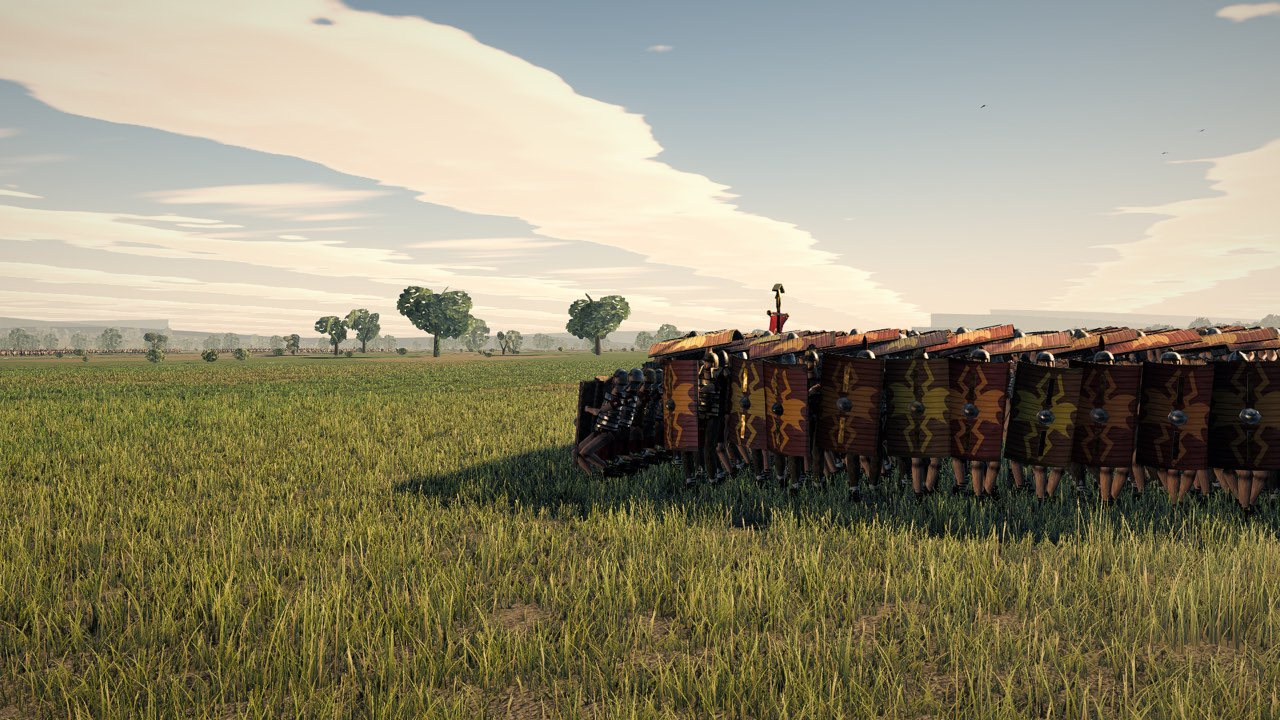
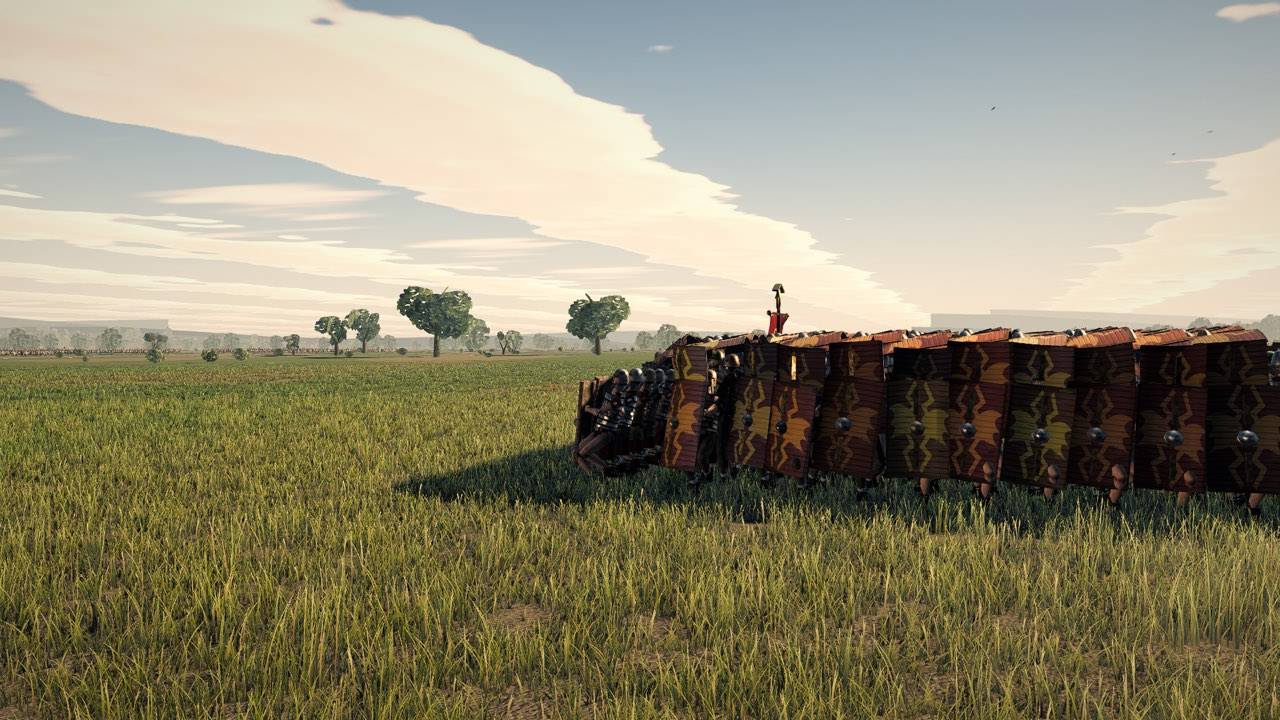
fix(testudo): two courses on every wall, which is what both critics asked for
A man holds one 1.06 m board and stands 1.75 m, so one course cannot reach from the
grass to above his helmet. Three passes proved it: at 0.74-1.79 m the rim stands on
the roof line and the legs are out; at 0.42-1.47 m the head is out; at 0.55-1.60 m the
head is hidden from a level ray but an eye at 1.75 m is above any rim below 1.75 m, so
at the height the rubric grades from it did nothing.

The front of the formation had never had the problem, because the front has always
been two courses — Face planted low at rank 0 and Nose tipped back above it at rank 1 —
and the front is the frame both critics called the strongest while calling the flanks
the weakest. So the flanks and the back are built the same way now: the outer file
plants the low board with its rim in the grass, the file behind it stands the high one
on the roof line, and between them the wall is closed from the turf to 1.79 m. Two
files of roof on each side, 40 men of 320.

Presentation only.

diff --git a/src/units/UnitRenderSystem.ts b/src/units/UnitRenderSystem.ts
@@ -1658,9 +1658,30 @@ export class UnitRenderSystem implements Subsystem {
         const file = slot % w;
         let r: TestudoRole;
         let turn = 0;
+        /**
+         * Two courses on every wall, not one, and this is the shape the whole feature
+         * converged on.
+         *
+         * A man holds one 1.06 m board and stands 1.75 m, so a single course cannot reach
+         * from the grass to above his helmet: put the rim low and his head is out, put it
+         * high and his legs are. The *front* of the formation never had that problem
+         * because it has always been two courses — `Face` planted low at rank 0 and `Nose`
+         * tipped back above it at rank 1 — and the front is the frame two independent
+         * critics called the strongest in the set while calling the flanks the weakest.
+         *
+         * So the flanks and the back are built the same way: the outer file plants `Face`
+         * low, the file behind it stands `Flank` on the roof line, and between them the
+         * wall is closed from the turf to 1.79 m. It costs two files of roof on each side.
+         */
+        const rearRank = Math.floor((last - file) / w);
+        const closed = lastRank >= TESTUDO_MIN_DEPTH;
         if (rank === 0) {
           r = TestudoRole.Face;
-        } else if (rank >= Math.floor((last - file) / w) && lastRank >= TESTUDO_MIN_DEPTH) {
+        } else if (closed && rank === rearRank - 1 && rank > 1) {
+          // Inner course of the back wall: the high board, standing on the roof line.
+          r = TestudoRole.Flank;
+          turn = Math.PI;
+        } else if (closed && rank >= rearRank) {
           /**
            * The back of the shell, and the reason this is per *file* and not per rank.
            *
@@ -1671,7 +1692,8 @@ export class UnitRenderSystem implements Subsystem {
            * the rear closed and half of it a row of bare legs and shoulder blades.
            * `floor((last - file) / w)` is the highest rank that file actually reaches.
            */
-          r = TestudoRole.Flank;
+          // Outer course of the back wall: the low board, rim in the grass.
+          r = TestudoRole.Face;
           // Chamfered at the two back corners for the same reason as the front two: a man
           // who is both the end of the rear rank and the end of a flank has to face the
           // diagonal, or the join between the two walls is a hole with a man in it.
@@ -1695,11 +1717,18 @@ export class UnitRenderSystem implements Subsystem {
            * bevel to the front rather than a notch. A shell is not a box with square
            * corners; the corners are where two surfaces have to meet.
            */
-          r = TestudoRole.Flank;
+          // Outer course: the board planted low, rim in the grass.
+          r = TestudoRole.Face;
           const out = file === 0 ? -1 : 1;
           // Eased rather than stepped. A hard step from 50° to 90° at one rank is a corner
           // with a crease in it, and from in front the first square board behind the bevel
           // is edge-on and shows the man beside it. Six ranks of it is a bevel.
+          const t = Math.min(1, Math.max(0, (rank - 1) / 5));
+          turn = out * (TESTUDO_CHAMFER + (Math.PI / 2 - TESTUDO_CHAMFER) * t * t);
+        } else if (w >= 6 && (file === 1 || file === w - 2)) {
+          // Inner course: the board standing on the roof line, one file in.
+          r = TestudoRole.Flank;
+          const out = file === 1 ? -1 : 1;
           const t = Math.min(1, Math.max(0, (rank - 1) / 5));
           turn = out * (TESTUDO_CHAMFER + (Math.PI / 2 - TESTUDO_CHAMFER) * t * t);
         } else if (rank === 1) {

diff --git a/src/anim/authored.ts b/src/anim/authored.ts
@@ -605,33 +605,32 @@ const ARMS_ROOF_B: BoneTrack[] = [
 ];
 
 /**
- * Flank and rear: the board upright, covering 0.55-1.60 m. **This height is a solved
- * three-way trade and it is worth understanding before moving it.**
+ * The **upper** course of the flank and rear wall: the board upright, covering 0.74-1.79 m.
  *
- * One 1.06 m board cannot cover a 1.75 m man, so wherever it is put, something is out. Two
- * critics moved it in opposite directions and between them fixed the number:
+ * **One 1.06 m board cannot cover a 1.75 m man, and three passes were spent proving it.**
+ * The flank started at this height, because the rim then stands on the roof line and no
+ * horizontal ray gets in. That left 0.74 m of bare leg along both flanks and the whole of
+ * the back, and a critic named it in five of nine frames as the single highest-leverage
+ * fault in the build. It was dropped to 0.42-1.47 m; the *other* end opened, and the next
+ * critic counted twenty-six exposed helmets, faces and raised forearms in one band across
+ * the back. It was split at 0.55-1.60 m; that hides the head from a level ray but **an eye
+ * at 1.75 m is above any rim below 1.75 m**, so from the height the rubric grades at, it
+ * did not help.
  *
- *   - **0.72-1.77 m** — the first attempt, chosen so the rim stood on the roof line and
- *     sealed every horizontal sightline. It put 0.72 m of bare leg along both flanks and
- *     the whole of the back; a critic named it in five of nine frames and called it the
- *     single highest-leverage fix in the build.
- *   - **0.42-1.47 m** — the answer to that, and it made the *other* end worse: the hunched
- *     man's head is at 1.55 m, so a rim at 1.47 leaves his helmet, face and both raised
- *     forearms above it. The next critic counted twenty-six in one unbroken band across the
- *     back and scored it as the same fault the legs were.
- *   - **0.55-1.60 m**, here. The rim is 0.05 m *over* the head, so nothing of the man shows
- *     above it, and the gap to the roof's own leading edge at 1.66 m is 0.06 m — closed for
- *     any practical sightline. The leg band is 0.55 m of which the grass takes about 0.2 m.
+ * The answer both critics converged on independently is the one the front of the formation
+ * already used: **two courses, not one.** The outer file plants `testudoFace` low, at
+ * 0.30-1.35 m, so the rim is in the grass; the file behind it holds this one at 0.74-1.79 m,
+ * so the rim is on the roof line. Between them they cover the ground to above a standing
+ * man's helmet, which is exactly what `Face` and `Nose` do at the front and exactly why the
+ * front face was the strongest frame in the set while the flanks were the weakest.
  *
- * Dropping it also took the "black fins" with it: at 1.60 m the far wall no longer stands
- * above the roof, so the unlit hide backs a tactical camera used to see over the top of the
- * shell are hidden behind the roof they used to stick through.
+ * It costs two files of roof on each side, which is 40 of 320 men.
  */
 const ARMS_FLANK: BoneTrack[] = [
-  absTr(MB.upperArmL, [[0, -172.1, 88.7, 6.2]]),
+  absTr(MB.upperArmL, [[0, 153.5, 88.7, 3]]),
   absTr(MB.lowerArmL, [[0, -174, -51, -177]]),
-  absTr(MB.upperArmR, [[0, 22.1, 26.6, 67.2]]),
-  absTr(MB.lowerArmR, [[0, -52, -46.8, 150.8]]),
+  absTr(MB.upperArmR, [[0, 34.8, 20.2, 54.5]]),
+  absTr(MB.lowerArmR, [[0, -63.6, -47.2, 159.5]]),
 ];
 
 /**

diff --git a/docs/tech/TESTUDO.md b/docs/tech/TESTUDO.md
@@ -51,11 +51,11 @@ would then have to have an opinion about.
 
 | role | rank / file | the board covers | what it closes |
 |---|---|---|---|
-| `Face` | rank 0 | 0.30–1.35 m, upright | the frontage, down to the ankles |
-| `Nose` | rank 1 | 1.19–1.92 m, 46° back-slope reaching 0.75 m forward | the band across the front at head height |
+| `Face` | rank 0; **and** the outer file and rearmost man of every file, turned outward | 0.30–1.35 m, upright, rim in the grass | the lower course of all four walls |
+| `Flank` | the **second** file in, and the man one rank forward of the rearmost, turned outward | 0.74–1.79 m, upright, rim on the roof line | the upper course of the flanks and the back |
+| `Nose` | rank 1 | 1.16–1.81 m, 52° back-slope reaching 0.85 m forward | the upper course of the front — the band at head height |
 | `RoofA` | interior, even ranks | 1.66–1.81 m, 8° nose-down | the roof, course one |
 | `RoofB` | interior, odd ranks | 1.63–1.85 m, 12° nose-down | the roof, course two |
-| `Flank` | outer files, and the rearmost man of **every** file | 0.42–1.47 m, upright | the flanks and the back, with the man turned outward |
 
 At the 0.632 m rank interval the formation asks for, each roof board laps the one in front by
 **0.43 m** — which is what leaves no hole when a man is 0.1 m out of his place. The face's top
@@ -81,6 +81,25 @@ the normal off the zenith, and puts a real 0.15 m step at every lap, so the roof
 with *shadow*. It is also the right way round — the leading edge is the low one, so each board
 sheds over the one behind it, which is how tiles are laid and why the surface reads as laid
 rather than printed.
+
+### Two courses on every wall
+
+**A man holds one 1.06 m board and stands 1.75 m, so a single course cannot reach from the
+grass to above his helmet.** Three passes were spent proving it. The flanks began at
+0.74–1.79 m so the rim stood on the roof line and no horizontal ray got in; that left 0.74 m
+of bare leg along both flanks and the whole back, and a critic named it in five of nine
+frames as the highest-leverage fault in the build. Dropped to 0.42–1.47 m, the other end
+opened and the next critic counted twenty-six exposed helmets, faces and raised forearms in
+one band across the back. Split at 0.55–1.60 m it hides the head from a *level* ray — but an
+eye at 1.75 m is above any rim below 1.75 m, so at the height the rubric grades from it did
+not help.
+
+Both critics converged independently on the answer the front of the formation had used all
+along: **two courses.** The outer file plants `Face` low, rim in the grass; the file behind
+it stands `Flank` on the roof line. Between them the wall is closed from the turf to 1.79 m,
+which is exactly what `Face` and `Nose` do at the front — and the front was the frame both
+critics called the strongest while calling the flanks the weakest. It costs two files of
+roof on each side, 40 men of 320.
 
 ### The corners
 
@@ -295,11 +314,19 @@ the arms are already most of the way to the roof and it is least visible.
 
 ## 7. What is still wrong
 
-- **The helmet band.** Dropping the flank board to 0.42–1.47 m bought back three quarters of a
-  metre of bare leg, and the price is a 0.19 m band between the rim and the roof's leading
-  edge, seen from outside at about eye height. It shows the men's own helmets and the underside
-  of the roof, not sky, and it arguably reads as men inside a shell rather than as a fault —
-  but it is a hole in the surface and it is there.
+- **The rear seen from above.** The roof's rearmost board belongs to the third rank from the
+  back, so the two rear wall courses have no roof over them — as a real testudo's rear rank
+  does not. From an elevated camera behind the formation you therefore look into that pocket
+  and see a course of helmets between the wall and the roof. From eye level, which is the
+  height §H grades at, you do not.
+- **Nothing here fixes the shield *surface*.** Two critics independently marked the board
+  down for having no rim, no edge thickness, a plank-corrugated face where painted plywood
+  belongs, and a device that is pixel-identical on all 320 boards with no wear or placement
+  jitter. All four are properties of `shieldPanel` and the atlas and they affect every shield
+  in the game; a testudo is simply the frame that puts 320 of them in front of you at once.
+- **No geometry anti-aliasing**, measured by a critic at one clean pixel step on every shield
+  edge against sky, and an exposure that clips 13% of the eye-level frame above 90% luminance
+  against Rome II's 0.24%. Both are whole-frame, not testudo.
 - **The rank-0 man of an outer file takes `Face`**, so the front rank runs unbroken across the
   full width and the chamfer starts at rank 1. From directly in front the outermost boards are
   still seen at 50°, which is darker than the rest of the face.
